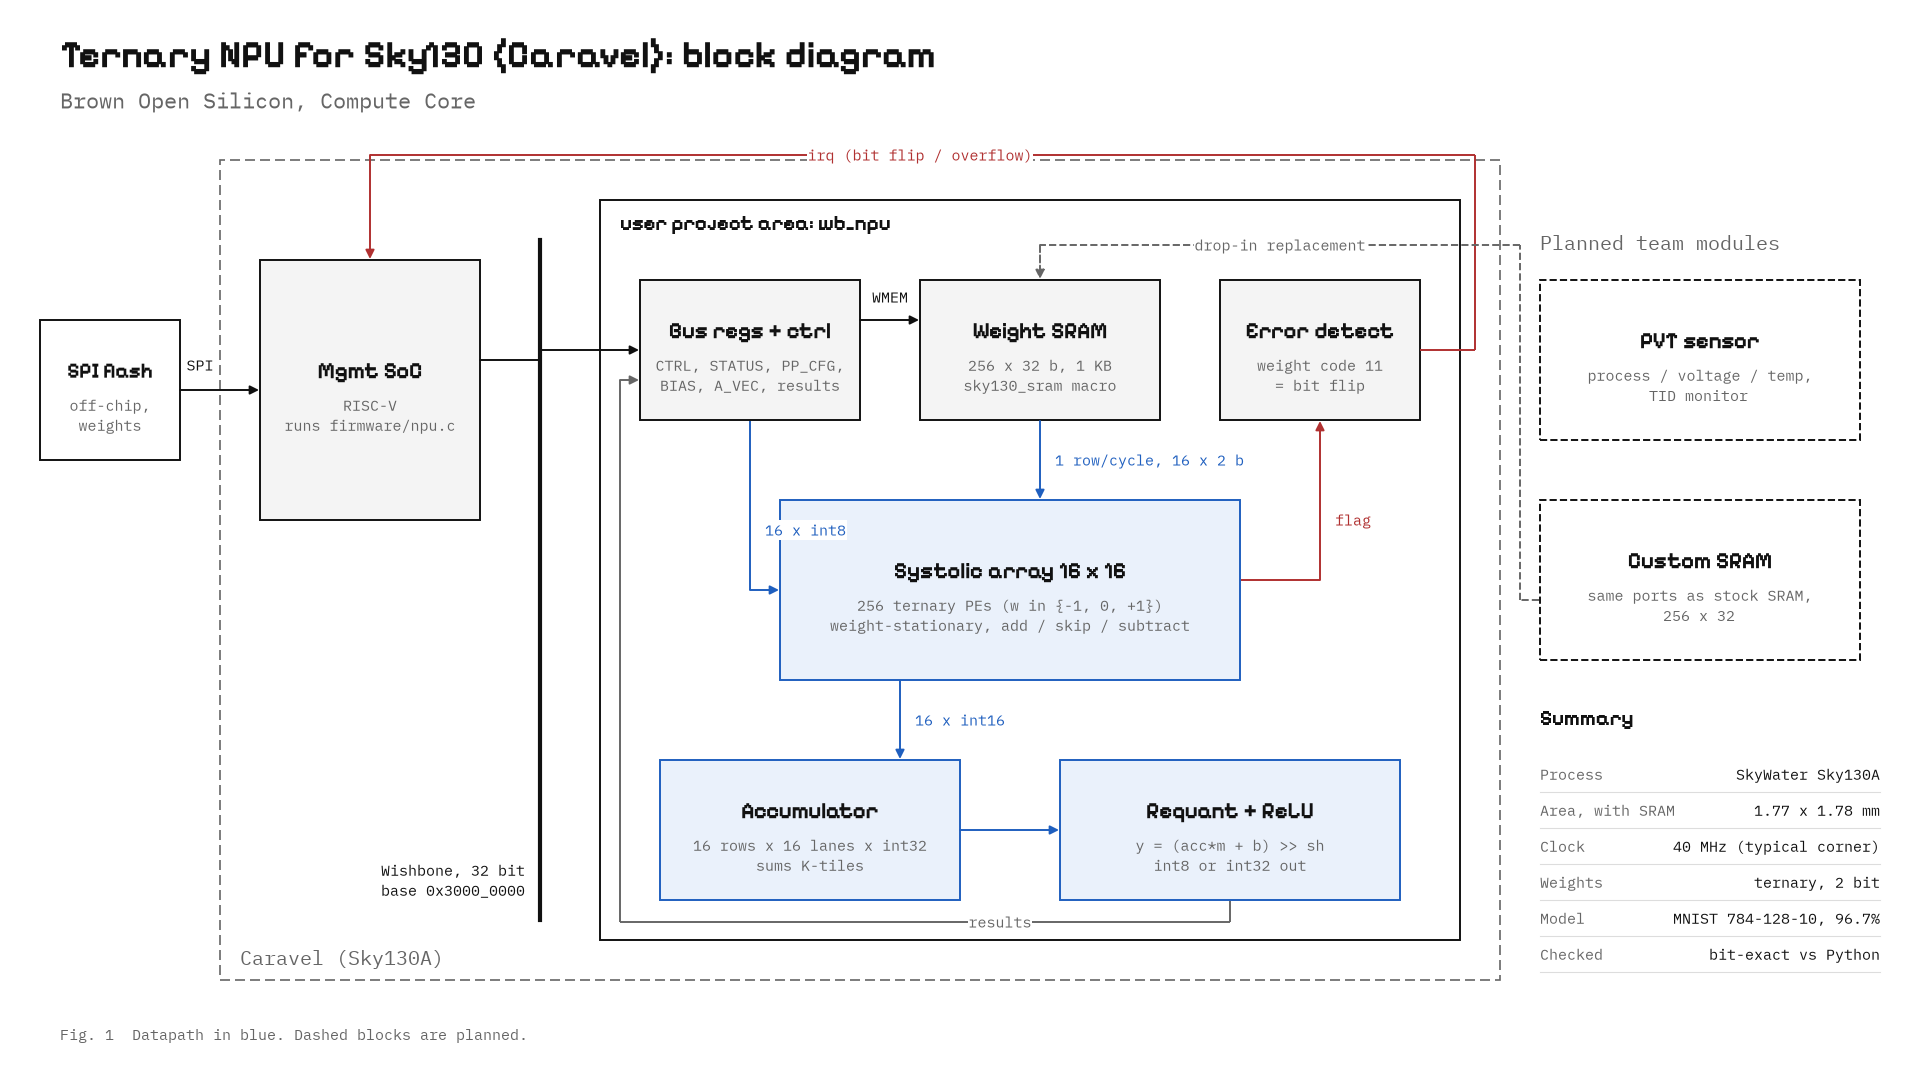
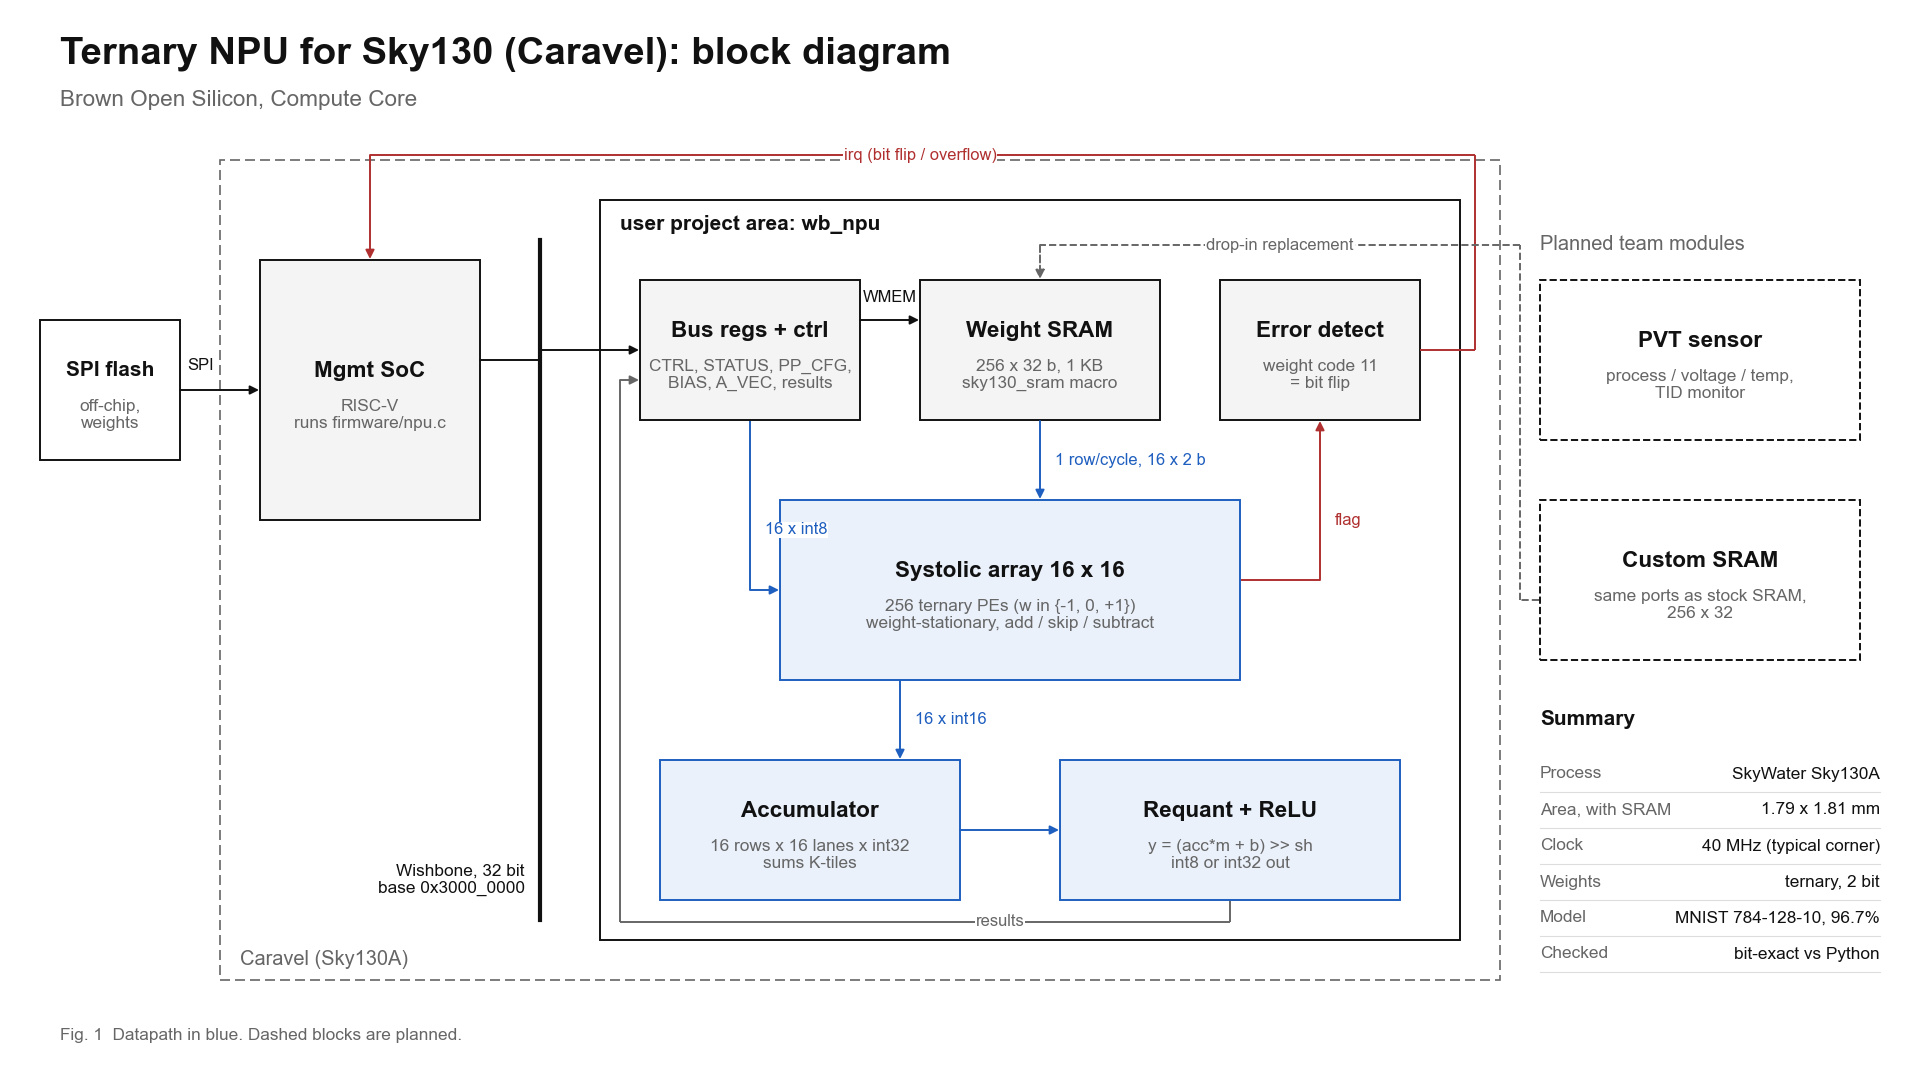
Block diagram: Arial font, updated die size; add the script that draws it

diff --git a/docs/img/block_diagram.py b/docs/img/block_diagram.py
@@ -1,0 +1,99 @@
+"""Block diagram for the README: python3 docs/img/block_diagram.py (needs matplotlib)."""
+import matplotlib
+matplotlib.use("Agg")
+import matplotlib.pyplot as plt
+from matplotlib.patches import Rectangle, FancyArrowPatch
+import os
+from matplotlib import font_manager
+plt.rcParams["font.family"] = ["Arial", "Helvetica", "DejaVu Sans"]
+PIX = None                                             # headings use the same font
+
+fig = plt.figure(figsize=(19.2, 10.8), dpi=100)
+ax = fig.add_axes([0, 0, 1, 1]); ax.set_xlim(0, 192); ax.set_ylim(0, 108); ax.axis("off")
+fig.patch.set_facecolor("white")
+K, G, B = "#111111", "#666666", "#1f5fbf"     # ink, gray, one accent for the datapath
+
+def block(x, y, w, h, name, detail="", fc="#f4f4f4", ec=K, ls="-", bold=True, size=16.2):
+    ax.add_patch(Rectangle((x, y), w, h, fc=fc, ec=ec, lw=1.4, ls=ls))
+    ty = y + h / 2 + (1.9 if detail else 0)
+    ax.text(x + w / 2, ty, name, ha="center", va="center", fontsize=size,
+            fontweight="bold" if bold else "normal", family=None, color=K)
+    if detail:
+        ax.text(x + w / 2, y + h / 2 - 2.5, detail, ha="center", va="center", fontsize=12.4, color=G)
+
+def wire(pts, col=K, lw=1.4, label=None, lpos=None, ha="center", head=True, ls="-"):
+    for (x1, y1), (x2, y2) in zip(pts[:-2], pts[1:-1]):
+        ax.plot([x1, x2], [y1, y2], color=col, lw=lw, ls=ls, solid_capstyle="butt")
+    (x1, y1), (x2, y2) = pts[-2], pts[-1]
+    ax.add_patch(FancyArrowPatch((x1, y1), (x2, y2), arrowstyle="-|>" if head else "-",
+                                 mutation_scale=13, color=col, lw=lw, ls=ls, shrinkA=0, shrinkB=0))
+    if label:
+        ax.text(*lpos, label, fontsize=11.9, color=col, ha=ha, va="center",
+                bbox=dict(fc="white", ec="none", pad=0.6))
+
+# title, plain
+ax.text(6, 102.5, "Ternary NPU for Sky130 (Caravel): block diagram", fontsize=27.5, fontweight="bold", color=K, va="center")
+ax.text(6, 98, "Brown Open Silicon, Compute Core", fontsize=16.2, color=G, va="center")
+
+# Caravel boundary
+ax.add_patch(Rectangle((22, 10), 128, 82, fc="none", ec=G, lw=1.2, ls=(0, (6, 3))))
+ax.text(24, 11.5, "Caravel (Sky130A)", fontsize=14.4, color=G, style="normal")
+
+# off-chip flash
+block(4, 62, 14, 14, "SPI flash", "off-chip,\nweights", fc="white", size=15.0)
+
+# management SoC
+block(26, 56, 22, 26, "Mgmt SoC", "RISC-V\nruns firmware/npu.c", size=16.2)
+wire([(18, 69), (25.9, 69)], label="SPI", lpos=(20, 71.5))
+
+# Wishbone bus as a vertical line
+ax.plot([54, 54], [16, 84], color=K, lw=3)
+ax.text(52.5, 20, "Wishbone, 32 bit\nbase 0x3000_0000", fontsize=12.4, color=K, ha="right", va="center")
+wire([(48, 72), (54, 72)], head=False)
+
+# user project area
+ax.add_patch(Rectangle((60, 14), 86, 74, fc="none", ec=K, lw=1.4))
+ax.text(62, 85, "user project area: wb_npu", fontsize=15.0, fontweight="bold", color=K)
+
+block(64, 66, 22, 14, "Bus regs + ctrl", "CTRL, STATUS, PP_CFG,\nBIAS, A_VEC, results")
+wire([(54, 73), (63.9, 73)])
+block(92, 66, 24, 14, "Weight SRAM", "256 x 32 b, 1 KB\nsky130_sram macro")
+wire([(86, 76), (91.9, 76)], label="WMEM", lpos=(89, 78.3))
+block(122, 66, 20, 14, "Error detect", "weight code 11\n= bit flip")
+
+block(78, 40, 46, 18, "Systolic array 16 x 16", "256 ternary PEs (w in {-1, 0, +1})\nweight-stationary, add / skip / subtract", fc="#eaf1fb", ec=B)
+wire([(104, 65.9), (104, 58.1)], col=B, label="1 row/cycle, 16 x 2 b", lpos=(105.5, 62), ha="left")
+wire([(75, 65.9), (75, 49), (77.9, 49)], col=B, label="16 x int8", lpos=(76.5, 55), ha="left")
+wire([(124.1, 50), (132, 50), (132, 65.9)], col="#b03030", label="flag", lpos=(133.5, 56), ha="left")
+
+block(66, 18, 30, 14, "Accumulator", "16 rows x 16 lanes x int32\nsums K-tiles", fc="#eaf1fb", ec=B)
+block(106, 18, 34, 14, "Requant + ReLU", "y = (acc*m + b) >> sh\nint8 or int32 out", fc="#eaf1fb", ec=B)
+wire([(90, 39.9), (90, 32.1)], col=B, label="16 x int16", lpos=(91.5, 36), ha="left")
+wire([(96, 25), (105.9, 25)], col=B)
+wire([(123, 17.9), (123, 15.8), (62, 15.8), (62, 70), (63.9, 70)], col=G, label="results", lpos=(100, 15.8))
+
+# irq back to the CPU
+wire([(142, 73), (147.5, 73), (147.5, 92.5), (37, 92.5), (37, 82.1)], col="#b03030",
+     label="irq (bit flip / overflow)", lpos=(92, 92.5))
+
+# planned modules, dashed
+block(154, 64, 32, 16, "PVT sensor", "process / voltage / temp,\nTID monitor", fc="white", ls="--")
+block(154, 42, 32, 16, "Custom SRAM", "same ports as stock SRAM,\n256 x 32", fc="white", ls="--")
+ax.text(154, 83, "Planned team modules", fontsize=14.4, color=G, style="normal")
+wire([(153.9, 48), (152, 48), (152, 83.5), (104, 83.5), (104, 80.1)], col=G, ls="--", label="drop-in replacement", lpos=(128, 83.5))
+
+# spec table
+rows = [("Process", "SkyWater Sky130A"), ("Area, with SRAM", "1.79 x 1.81 mm"),
+        ("Clock", "40 MHz (typical corner)"), ("Weights", "ternary, 2 bit"),
+        ("Model", "MNIST 784-128-10, 96.7%"), ("Checked", "bit-exact vs Python")]
+x0, y0 = 154, 34
+ax.text(x0, y0 + 1.5, "Summary", fontsize=15.0, fontweight="bold", color=K)
+for i, (k, v) in enumerate(rows):
+    y = y0 - 3.4 - i * 3.6
+    ax.plot([x0, 188], [y - 1.8, y - 1.8], color="#dddddd", lw=0.8)
+    ax.text(x0, y, k, fontsize=12.4, color=G, va="center")
+    ax.text(188, y, v, fontsize=12.4, color=K, va="center", ha="right")
+
+ax.text(6, 4, "Fig. 1  Datapath in blue. Dashed blocks are planned.", fontsize=12.4, color=G)
+fig.savefig(os.path.join(os.path.dirname(os.path.abspath(__file__)), "block_diagram.png"), facecolor="white")
+print("ok")
